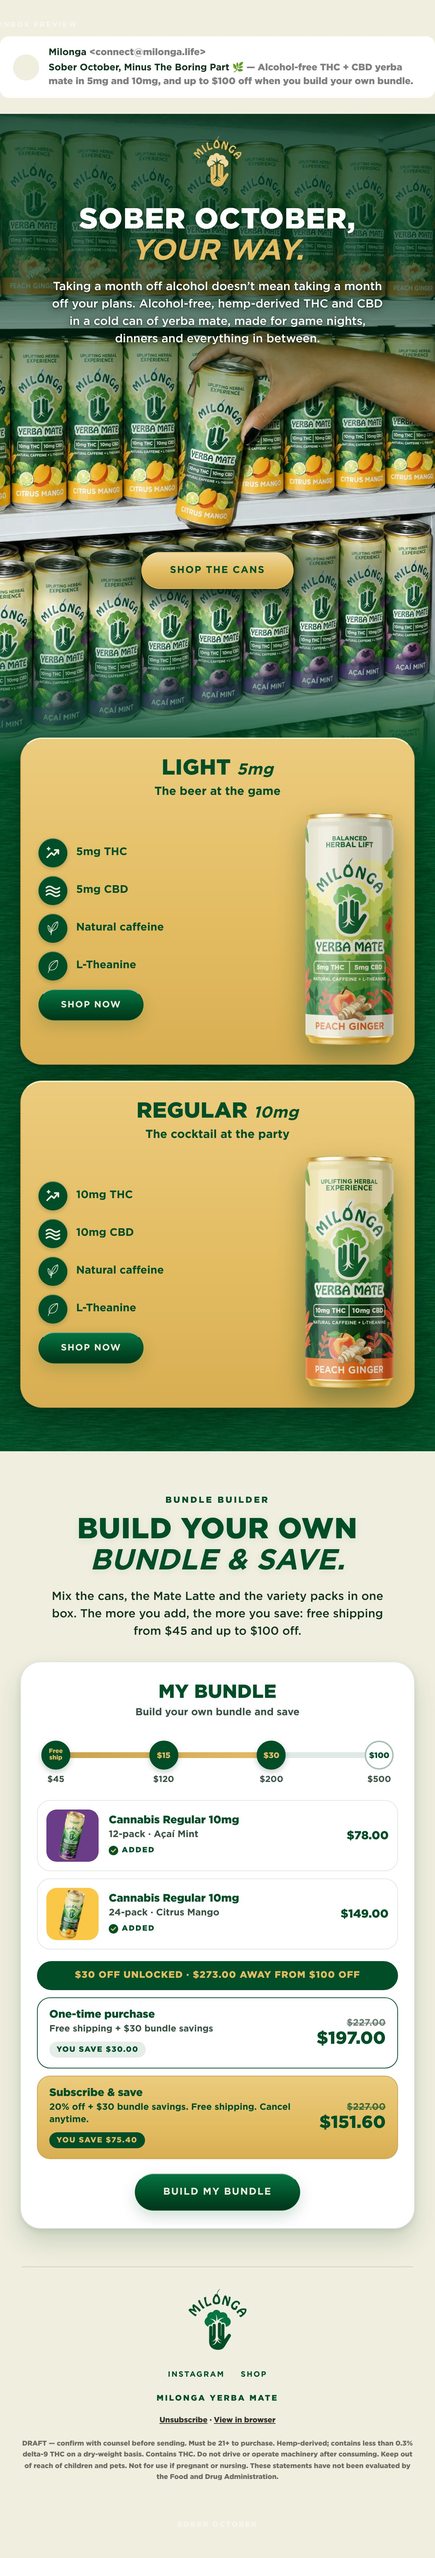
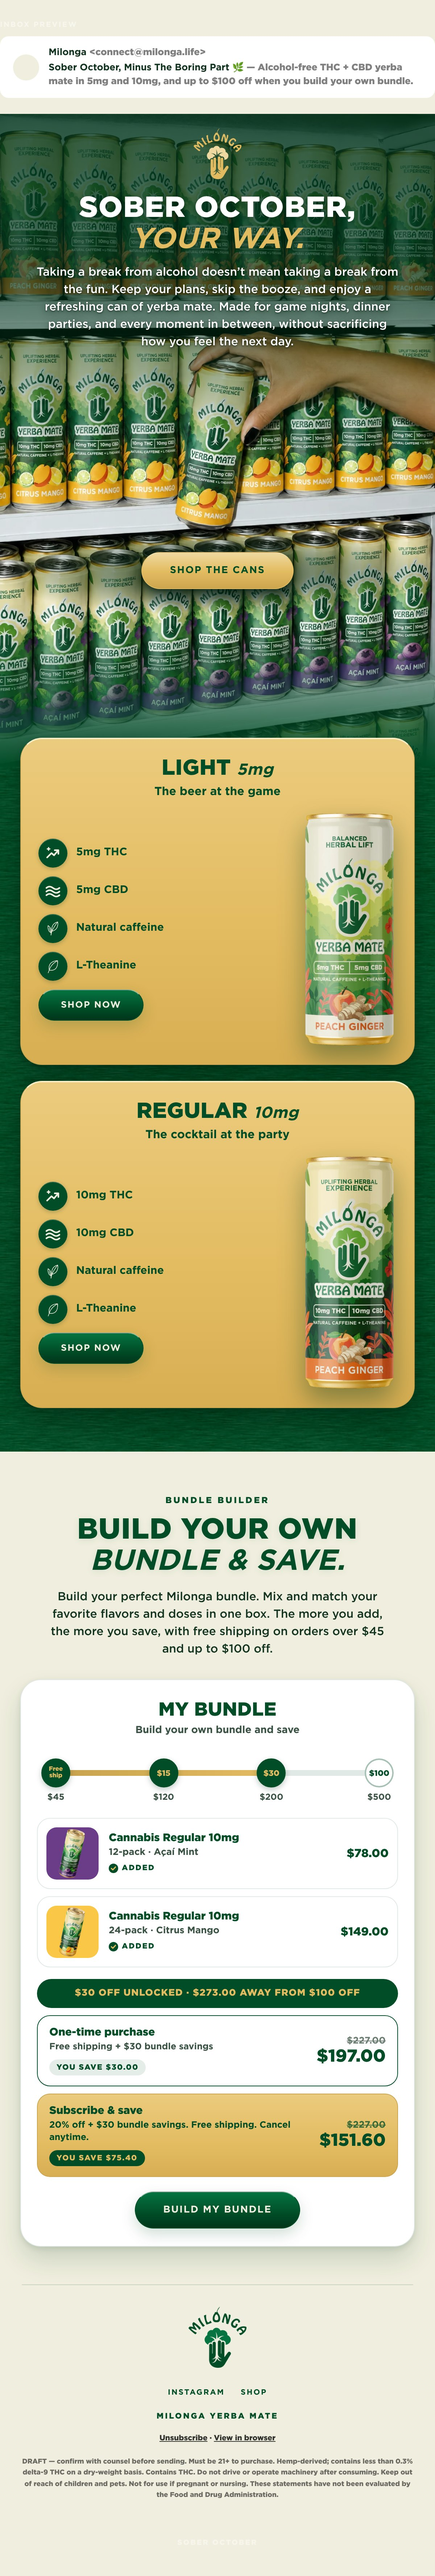
email: Sober October — new hero and bundle paragraphs
Bernat's copy for the opener and the bundle builder; the hero block is
tightened a little so the longer paragraph clears the hand.

Claude-Session: https://claude.ai/code/session_01NhEtXPnfeCJfN73SqBkUZ5

Changed region(s): [[0.0, 0.0312, 1.0, 0.9668]]

diff --git a/email-ds/emails/sober-october.jsx b/email-ds/emails/sober-october.jsx
@@ -60,11 +60,12 @@ const VERSIONS = [
 ];
 
 const SECTION_1_ALT =
-  'Milonga. Sober October, your way. Taking a month off alcohol doesn’t mean ' +
-  'taking a month off your plans. Alcohol-free, hemp-derived THC and CBD in a ' +
-  'cold can of yerba mate, made for game nights, dinners and everything in ' +
-  'between. A hand pulls a can of Milonga Citrus Mango from a fridge shelf ' +
-  'stocked with Peach Ginger, Citrus Mango and Açaí Mint. Shop the cans.';
+  'Milonga. Sober October, your way. Taking a break from alcohol doesn’t mean ' +
+  'taking a break from the fun. Keep your plans, skip the booze, and enjoy a ' +
+  'refreshing can of yerba mate. Made for game nights, dinner parties, and every ' +
+  'moment in between, without sacrificing how you feel the next day. A hand ' +
+  'pulls a can of Milonga Citrus Mango from a fridge shelf stocked with Peach ' +
+  'Ginger, Citrus Mango and Açaí Mint. Shop the cans.';
 
 // The bundle builder's savings ladder and the box Bernat built on the site
 // (see section 3).
@@ -202,15 +203,15 @@ function SoberOctober({ shopHref = '#shop' }) {
         // type carries its own shadow for the rest. The foot fades only in
         // the last fifth, so the cards begin on photograph, not on green.
         background: 'linear-gradient(180deg, rgba(0,53,27,0.80) 0%, rgba(0,53,27,0.66) 26%, rgba(0,53,27,0.36) 40%, rgba(0,53,27,0) 52%, rgba(0,77,39,0) 80%, rgba(0,77,39,0.7) 93%, #004D27 100%)' } }),
-      h('div', { style: { position: 'absolute', top: 30, left: 40, right: 40, textAlign: 'center',
+      h('div', { style: { position: 'absolute', top: 20, left: 36, right: 36, textAlign: 'center',
         textShadow: '0 2px 10px rgba(0,26,13,0.7), 0 1px 2px rgba(0,26,13,0.6)' } },
         h(M.Logo, { tone: 'gold', variant: 'primary', height: 70 }),
-        h('div', { style: { marginTop: 22 } },
+        h('div', { style: { marginTop: 16 } },
           h(M.Headline, { line1: 'Sober October,', line2: 'your way.', bg: 'forest',
             size: 40, align: 'center', color: '#FFFFFF', line2Color: GOLD, italic: true })),
         h('div', { style: { fontFamily: FONT, fontWeight: 500, fontSize: 16, lineHeight: 1.5,
-          color: '#FFFFFF', margin: '16px auto 0', maxWidth: 470 } },
-          'Taking a month off alcohol doesn’t mean taking a month off your plans. Alcohol-free, hemp-derived THC and CBD in a cold can of yerba mate, made for game nights, dinners and everything in between.'),
+          color: '#FFFFFF', margin: '12px auto 0', maxWidth: 500 } },
+          'Taking a break from alcohol doesn’t mean taking a break from the fun. Keep your plans, skip the booze, and enjoy a refreshing can of yerba mate. Made for game nights, dinner parties, and every moment in between, without sacrificing how you feel the next day.'),
       ),
       // The button sits just under the hand and its can (Bernat), on the
       // shelf lip, so the eye runs title → hand → button. The cans behind it
@@ -248,7 +249,7 @@ function SoberOctober({ shopHref = '#shop' }) {
       h(M.Headline, { line1: 'Build your own', line2: 'bundle & save.', bg: 'beige', size: 40, align: 'center', italic: true }),
       h('div', { style: { fontFamily: FONT, fontWeight: 500, fontSize: 16, lineHeight: 1.5,
         color: '#12331F', maxWidth: 460, margin: '16px auto 0' } },
-        'Mix the cans, the Mate Latte and the variety packs in one box. The more you add, the more you save: free shipping from $45 and up to $100 off.'),
+        'Build your perfect Milonga bundle. Mix and match your favorite flavors and doses in one box. The more you add, the more you save, with free shipping on orders over $45 and up to $100 off.'),
 
       // The panel.
       h('div', { style: { marginTop: 30, textAlign: 'left', background: '#FFFFFF', borderRadius: 28,
